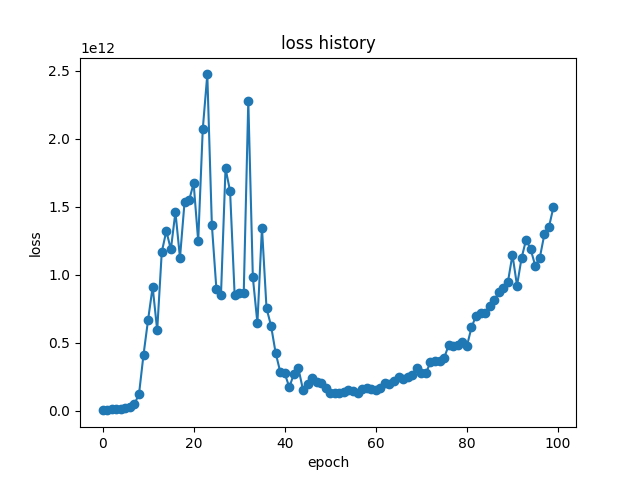
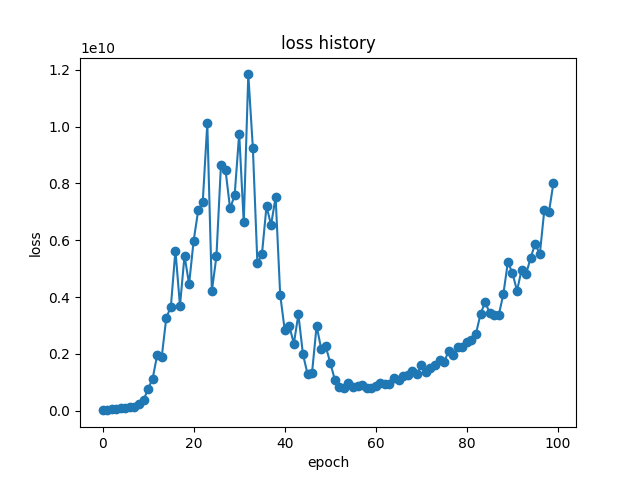
update

diff --git a/实操/CV_Project/mainCNN.py b/实操/CV_Project/mainCNN.py
@@ -4,7 +4,7 @@ import torch
 from baseConfig import *
 from CNN.LoadData import *
 from CNN.model import *
-from torch.optim import Adam
+from torch.optim import Adam, SGD
 from torch.nn import CrossEntropyLoss, MSELoss
 import tqdm
 from CNN.OptimLion import Lion
@@ -37,6 +37,7 @@ if __name__ == '__main__':
     model = CNN()
     model.to(device)
     # optimer = Adam(model.parameters(), lr=learning_rate)
+    # optimer = SGD(model.parameters(), lr=learning_rate)
     optimer = Lion(model.parameters(), lr=learning_rate)
     loss = CrossEntropyLoss()
     loss1 = MSELoss()
@@ -58,6 +59,7 @@ if __name__ == '__main__':
     bestModel = None
     acc_history = []
     loss_history = []
+    vali_loss_history = []
     for E in range(epoch):
 
         sumLoss = 0
@@ -68,32 +70,42 @@ if __name__ == '__main__':
             b = b.to(device)
             res = model(a)
             batchLoss = loss(res, b)
+            cnt += 1
             optimer.zero_grad()
             batchLoss.backward()
             optimer.step()
             sumLoss += batchLoss
-        print(f'loss={float(sumLoss)}')
-        loss_history.append(float(sumLoss))
+        print(f'loss={float(sumLoss)/cnt}')
+        loss_history.append(float(sumLoss)/cnt)
 
         model.eval()
         sumCount = 0
         allCount = 0
+        sumLoss = 0
+        cnt = 0
         with torch.no_grad():
             for img, label in TestLoader:
                 img = img.to(device).type(torch.float32)
                 label = label.to(device)
-                predicted = torch.argmax(model(img), dim=1)
+                P = model(img)
+                predicted = torch.argmax(P, dim=1)
+                batchLoss = loss(P, label)
+                sumLoss += batchLoss
+                cnt += 1
                 equal_elements = torch.eq(predicted, label)
                 count = torch.sum(equal_elements).item()
                 sumCount += count
                 allCount += len(predicted)
             print(f"Test acc:{sumCount / allCount}")
+            print(f"Test loss:{float(sumLoss) / cnt}")
             if sumCount / allCount > acc:
                 acc = sumCount / allCount
                 bestModel = model
                 print("got best performance")
             acc_history.append(sumCount / allCount)
+            vali_loss_history.append(float(sumLoss) / cnt)
 
     saveModel(bestModel, os.path.join(CNNPath, 'modelCache', f"CNN_best_acc={acc}.pth"))
     draw_line_chart(acc_history, X='epoch', Y='accuracy', title='accuracy history', saveLocation=os.path.join(CNNPath, 'trainingLogs', 'accuracy.png'))
     draw_line_chart(loss_history, X='epoch', Y='loss', title='loss history', saveLocation=os.path.join(CNNPath, 'trainingLogs', 'loss.png'))
+    draw_line_chart(vali_loss_history, X='epoch', Y='loss', title='validation loss history', saveLocation=os.path.join(CNNPath, 'trainingLogs', 'vali_loss.png'))

diff --git a/实操/CV_Project/CNN/readme.md b/实操/CV_Project/CNN/readme.md
@@ -1,0 +1,49 @@
+# CNN模型结果分析
+
+## 初步训练效果展示
+
+当训练参数如下时：
+
+```python
+    batch_size = 256
+    epoch = 100
+    learning_rate = 0.01
+    optimer = Lion(model.parameters(), lr=learning_rate)
+```
+
+模型效果如下（这里的Accuracy是在测试集上的Accuracy）：
+
+![](trainingLogs/accuracy.png)
+
+![](trainingLogs/loss.png)
+
+![](trainingLogs/vali_loss.png)
+
+这结果带来几个问题值得研究
+
+首先，为什么loss不和Accuracy一样稳定的变化，因为理论上讲loss应该稳定下降才对，到后面loss还越学越多了
+
+其次，模型还能不能优化
+
+## 题外话（
+
+看到一篇非常好的文章：
+[知乎：深度学习的loss一般收敛到多少？](https://www.zhihu.com/question/435099359/answer/2457089939)
+
+这篇文章中讲了几种validation loss和training loss的情况：
+
+第一种叫做High Variance：
+
+![](https://picx.zhimg.com/80/v2-34b42284e073a835f2a18525c105ae2d_1440w.webp?source=2c26e567)
+
+这意味着验证集上的误差与在训练集上的误差之间的差值很大，此时training loss很小，说明模型在训练集上能学到东西，而测试集误差很大，说明测试集对模型太难了，这就说明此时模型泛化能力差，过拟合。应该增强数据集，模型做regularization等。
+
+第二种叫做High Bias：
+
+![](https://picx.zhimg.com/80/v2-e033b10d5cb3cd33b1735ff1ae9b9290_1440w.webp?source=2c26e567)
+
+此时发现随着size的增大，两个loss接近，且training loss很高，说明模型没学懂数据，是欠拟合。这种时候就应该换一个更好的模型更大的模型。
+
+最后一种是Both，说明模型泛化能力又差又学不懂数据。
+
+![](https://pic1.zhimg.com/80/v2-8ba147a93229b7c51492c7398e54a40b_1440w.webp?source=2c26e567)
